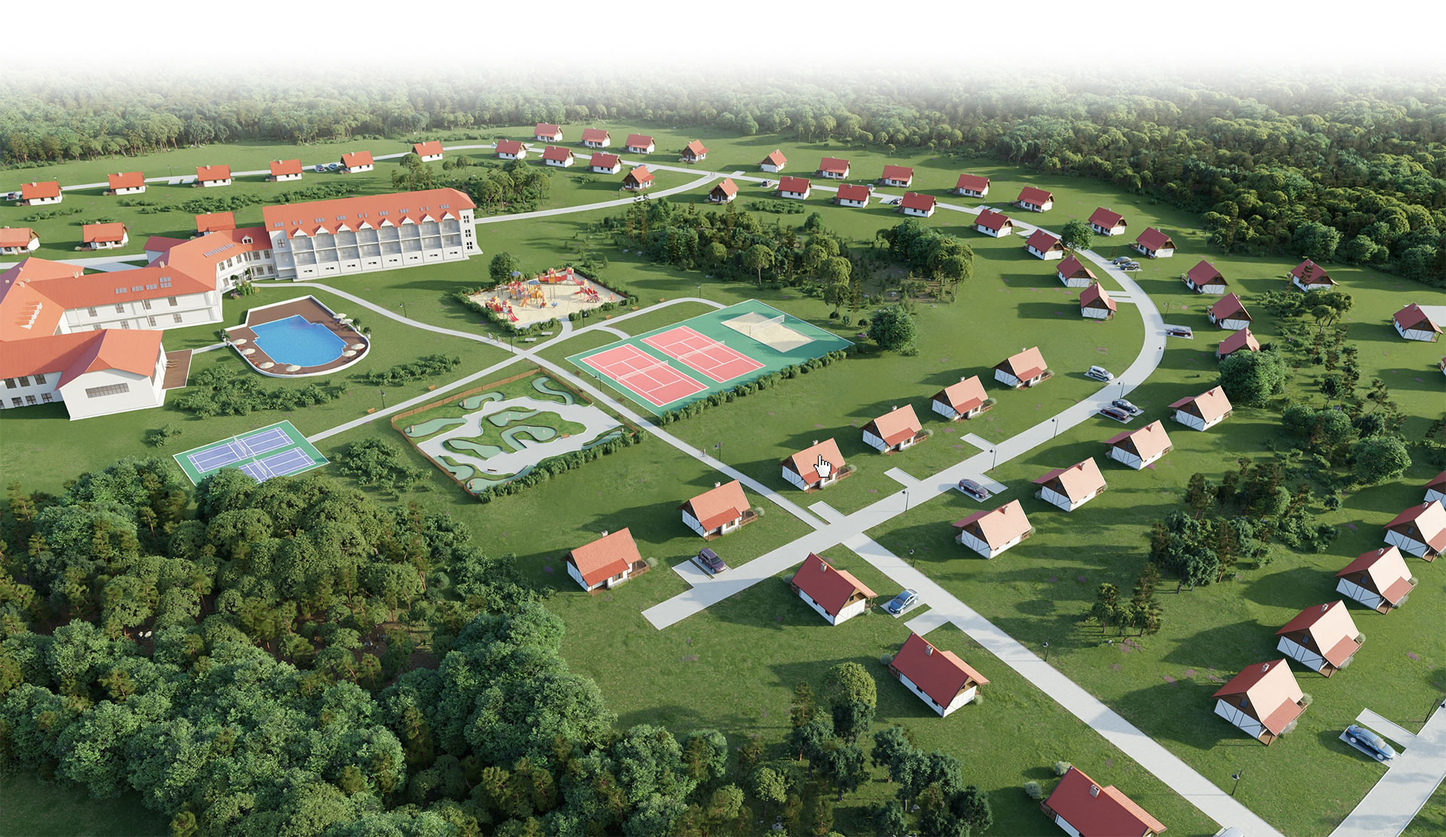
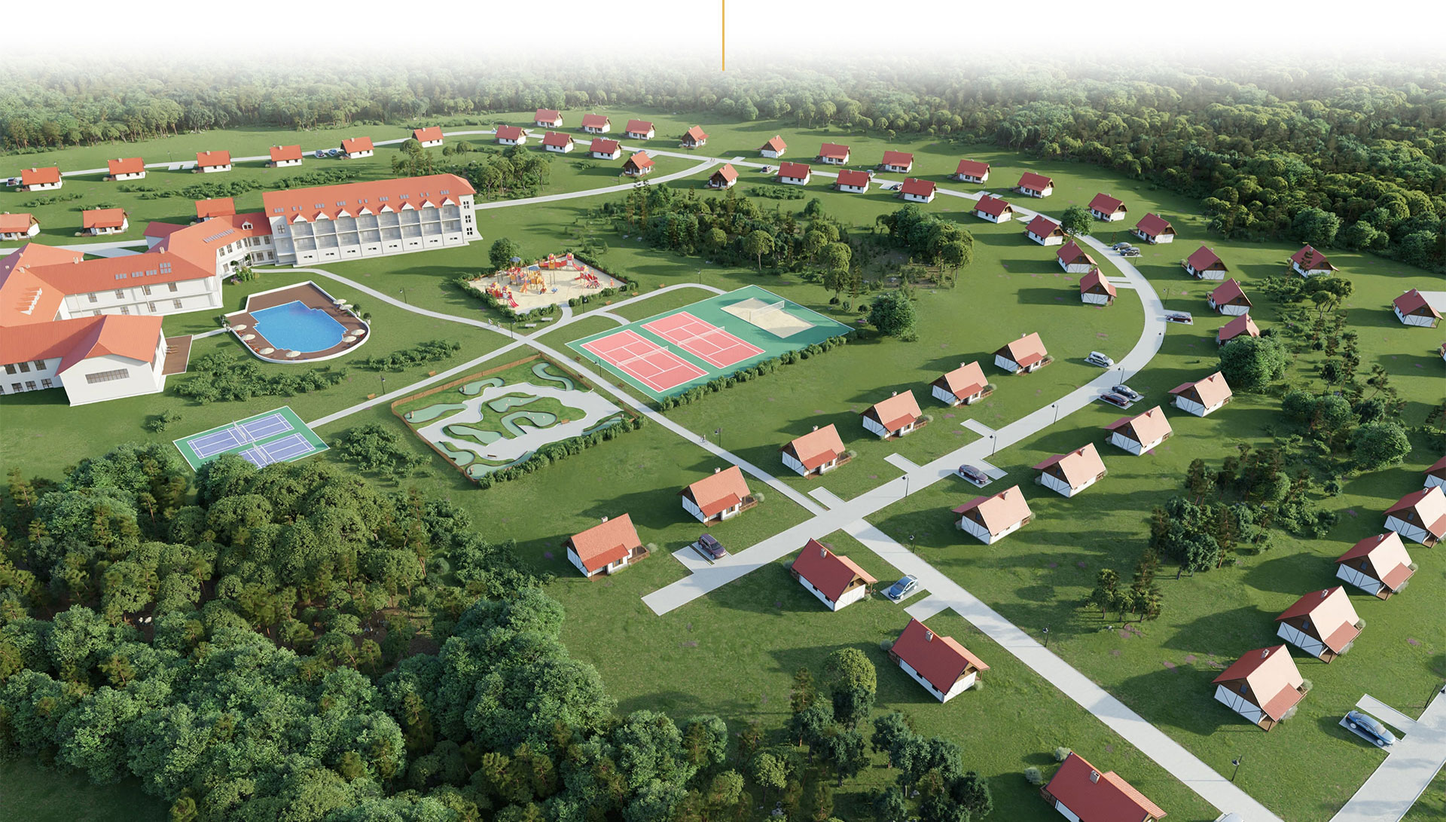
Invest plan - homepage

diff --git a/resources/views/front/homepage/index.blade.php b/resources/views/front/homepage/index.blade.php
@@ -89,7 +89,14 @@
                     @endauth
                 </div>
             </div>
-            <img src="{{ asset('/images/plan.jpg') }}" alt="Plan inwestycji">
+
+            <picture>
+                <source srcset="{{ asset('/images/plan-600.webp') }}" type="image/webp" media="(max-width: 599px)">
+                <source srcset="{{ asset('/images/plan-1200.webp') }}" type="image/webp" media="(max-width: 1199px)">
+                <source srcset="{{ asset('/images/plan.webp') }}" type="image/webp" media="(min-width: 1200px)">
+                <source srcset="{{ asset('/images/plan.jpg') }}" type="image/jpeg">
+                <img src="{{ asset('/images/plan.jpg') }}" alt="Plan inwestycji" loading="lazy" width="1920" height="1123" class="w-100">
+            </picture>
         </section>
 
         <section id="features">
